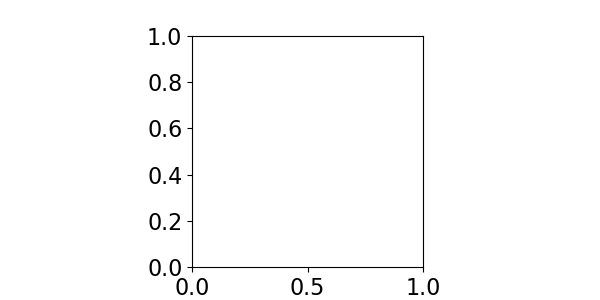
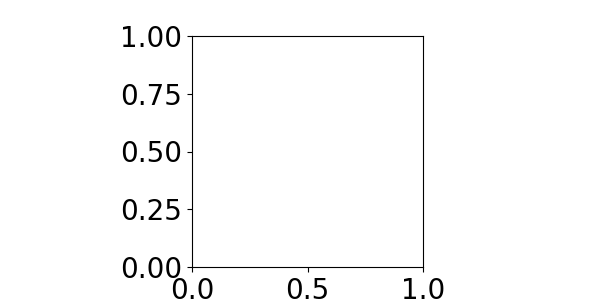
graphe changes

diff --git a/ST_feed_and_reheat_multi.py b/ST_feed_and_reheat_multi.py
@@ -5,7 +5,7 @@ import STboiler_arguments as STboiler_arg;
 from boiler import boiler
 import matplotlib.pyplot as plt
 from pyXSteam.XSteam import XSteam # see documentation here: https://pypi.org/project/pyXSteam/
-plt.rcParams.update({'font.size': 16})
+plt.rcParams.update({'font.size': 20})
 
 
 import ST_drum2 as drum
@@ -797,10 +797,10 @@ def ST(ST_inputs):
 
 
     ax3.plot(S22p,T22p,'g',S2p2pp,T2p2pp,'g',S2pp3,T2pp3,'g',S36,T36,'g',S67,T67,'g')
-    ax3.set_xlabel('Entropy [J/kg/K]')
+    ax3.set_xlabel('Entropy [kJ/kg/K]')
     ax3.set_ylabel('Tempearature [°C]')
     ax3.grid(True)
-    ax3.set_title('T S graph of the steam turbine cycle')
+    #ax3.set_title('T S graph of the steam turbine cycle')
     ax3.legend()
 
 
@@ -823,7 +823,7 @@ ST_inputs.TpinchSub = 10
 ST_inputs.p3_hp=100
 ST_inputs.p4 = 30
 ST_inputs.Tdrum = 120
-ST_inputs.drumFlag = 0
+ST_inputs.drumFlag = 1
 ST_inputs.T_exhaust= 120
 ST_inputs.TpinchHR = 80
 answers = ST(ST_inputs);

diff --git a/ST_drum2.py b/ST_drum2.py
@@ -14,7 +14,7 @@ import STboiler_arguments as STboiler_arg;
 from boiler import boiler
 import matplotlib.pyplot as plt
 from pyXSteam.XSteam import XSteam # see documentation here: https://pypi.org/project/pyXSteam
-plt.rcParams.update({'font.size': 16})
+plt.rcParams.update({'font.size': 20})
 
 
 def ST(ST_inputs):
@@ -1007,10 +1007,10 @@ def ST(ST_inputs):
 
 
     #ax3.plot(S22p,T22p,'g',S2p2pp,T2p2pp,'g',S2pp3,T2pp3,'g',S36,T36,'g',S3p,T36,'b--',S67,T67,'g')
-    ax3.set_xlabel('Entropy [J/kg/K]')
-    ax3.set_ylabel('Tempearature [°C]')
+    ax3.set_xlabel('Entropy [kJ/kg/K]')
+    ax3.set_ylabel('Temperature [°C]')
     ax3.grid(True)
-    ax3.set_title('T S graph of the steam turbine cycle')
+    #ax3.set_title('T S graph of the steam turbine cycle')
     ax3.legend()
 
     fig = [fig,fig2]

diff --git a/ST_drum1.py b/ST_drum1.py
@@ -14,7 +14,7 @@ import STboiler_arguments as STboiler_arg;
 from boiler import boiler
 import matplotlib.pyplot as plt
 from pyXSteam.XSteam import XSteam # see documentation here: https://pypi.org/project/pyXSteam
-plt.rcParams.update({'font.size': 16})
+plt.rcParams.update({'font.size': 20})
 
 
 def ST(ST_inputs):
@@ -983,10 +983,10 @@ def ST(ST_inputs):
 
 
     #ax3.plot(S22p,T22p,'g',S2p2pp,T2p2pp,'g',S2pp3,T2pp3,'g',S36,T36,'g',S3p,T36,'b--',S67,T67,'g')
-    ax3.set_xlabel('Entropy [J/kg/K]')
+    ax3.set_xlabel('Entropy [kJ/kg/K]')
     ax3.set_ylabel('Tempearature [°C]')
     ax3.grid(True)
-    ax3.set_title('T S graph of the steam turbine cycle')
+    #ax3.set_title('T S graph of the steam turbine cycle')
     ax3.legend()
 
     fig = [fig,fig2,fig3]
